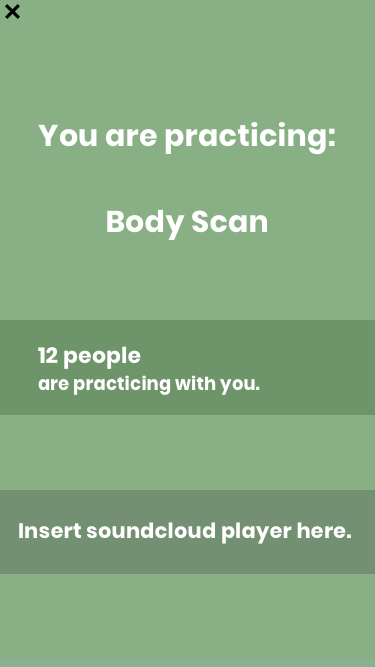
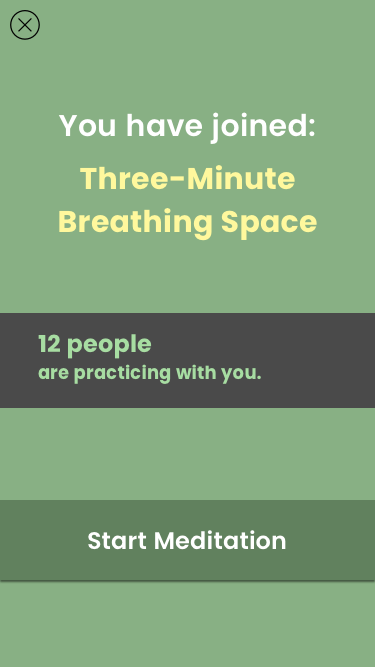
add more stuff

diff --git a/frontend/src/App.js b/frontend/src/App.js
@@ -3,6 +3,7 @@ import HomePage from './HomePage'
 import CreateSession from './CreateSession'
 import JoinSession from './JoinSession'
 import Profile from './Profile'
+import ActivityPage from './ActivityPage.png'
 
 class App extends Component {
   state = {
@@ -17,8 +18,10 @@ class App extends Component {
       <div>
         { componentToShow === 'homepage' && <HomePage startJourney={this.startJourney} /> }
         { componentToShow === 'createSession' && <CreateSession startJourney={this.startJourney}/> }
-        { componentToShow === 'joinSession' && <JoinSession/> }
-        { componentToShow === 'profile' && <Profile/> }
+        { componentToShow === 'joinSession' && <JoinSession startJourney={this.startJourney}/> }
+        { componentToShow === 'profile' && <Profile startJourney={this.startJourney}  /> }
+        { componentToShow === 'activityPage' && <a href="https://www.mindfulnessstudies.com/wp-content/uploads/2018/03/Three-Minute-Breathing-Space.mp3" target="_blank" ><img src={ActivityPage}/></a>  }
+ 
       </div>
 
     )

diff --git a/frontend/src/CreateSession.js b/frontend/src/CreateSession.js
@@ -36,7 +36,7 @@ class CreateSession extends Component {
             <CategoryButton/>
             <ProductSelecta />
             <ShareExperience/>
-            <StartNow/>
+            <StartNow startJourney={this.props.startJourney}/>
             <ScheduleForLater/>
             <AppBar onClick={() => this.props.startJourney('profile')}>
             Schedule for Later

diff --git a/frontend/src/Profile.js b/frontend/src/Profile.js
@@ -18,9 +18,12 @@ class Profile extends Component {
     render(){
       return(
         <Grommet theme={theme} full>
+          <div onClick={() => this.props.startJourney('homepage')}>
           <img src={profilePage}
             width="100%"
             alt="User"/>
+          </div>
+
         </Grommet>
         )
     }

diff --git a/frontend/src/JoinSession.js b/frontend/src/JoinSession.js
@@ -23,7 +23,7 @@ class JoinSession extends Component {
           <React.Fragment>
             <CategoryButton />
             <ProductSelecta /> 
-            <ScheduleList />
+            <ScheduleList startJourney={this.props.startJourney} />
           </React.Fragment>
         )
     }

diff --git a/frontend/src/ScheduleList.js b/frontend/src/ScheduleList.js
@@ -72,7 +72,7 @@ class ScheduleList extends Component {
                     </table>
                 </div>
                 ))}
-                <JoinSessionButton />
+                <JoinSessionButton startJourney={this.props.startJourney} />
             </div>
         )
     }

diff --git a/frontend/src/StartNow.js b/frontend/src/StartNow.js
@@ -28,6 +28,7 @@ class StartNow extends Component {
               style={{
                 color: "white"
               }}
+              onClick={() => this.props.startJourney('activityPage')}
               > Start Now </h2>
             </Box>
             <h4

diff --git a/frontend/src/JoinSessionButton.js b/frontend/src/JoinSessionButton.js
@@ -28,6 +28,8 @@ class StartNow extends Component {
               style={{
                 color: "white"
               }}
+              onClick={() => this.props.startJourney('profile')}
+
               > Join Session </h2>
             </Box>
 
